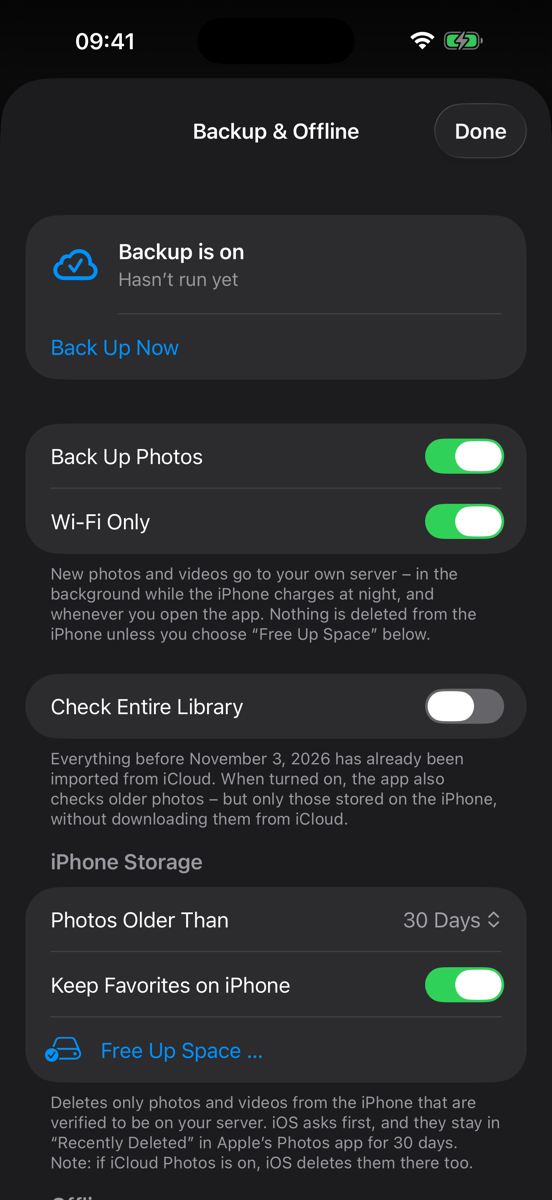
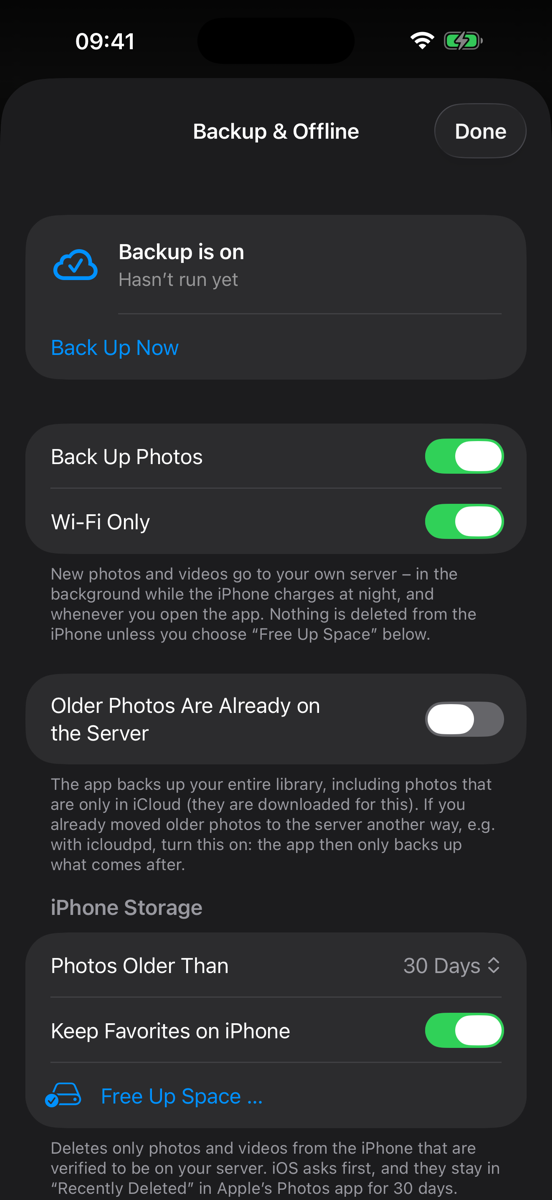
Backup: no hard-coded import date – full library by default, optional 'already on the server' date

Changed region(s): [[0.0616, 0.555, 0.9239, 1.0]]

diff --git a/App/Backup/BackupEngine.swift b/App/Backup/BackupEngine.swift
@@ -7,14 +7,12 @@ import BackgroundTasks
 /// - Lädt nur Originale (`.photo`, `.video`, `.pairedVideo`); eine Bearbeitung aus Fotos kommt als eigene Fassung
 ///   oben auf das Original (Stapel + Tag „Kategorie/Bearbeitet“) – wie beim iCloud-Import.
 /// - Duplikate erkennt der Server über die SHA1 (`bulk-upload-check`, Header `x-immich-checksum`).
-/// - Ältere Objekte als `cutoff` sind schon aus iCloud importiert: werden nur geprüft, wenn sie lokal liegen
-///   (kein Nachladen aus iCloud), und nur mit „Ganze Mediathek prüfen“.
+/// - Ältere Objekte als `importCutoff` liegen schon auf dem Server (z. B. per icloudpd importiert): werden nur geprüft,
+///   wenn sie lokal liegen (kein Nachladen aus iCloud), und nur mit „Ganze Mediathek prüfen“. Ohne Datum wird alles gesichert.
 @MainActor @Observable
 final class BackupEngine {
     static let shared = BackupEngine()
     nonisolated static let taskID = "org.homeroll.app.backup"
-    /// Ab hier fehlt der iCloud-Import (Download begann am 04.11.2026 nachts).
-    static let importCutoff = ISO8601DateFormatter().date(from: "2026-11-03T00:00:00Z")!
 
     enum Phase: Equatable { case idle, scanning, uploading, done, failed(String) }
 
@@ -29,6 +27,8 @@ final class BackupEngine {
     }
     var wifiOnly = UserDefaults.standard.object(forKey: "backup.wifiOnly") as? Bool ?? true { didSet { save() } }
     var fullLibrary = UserDefaults.standard.bool(forKey: "backup.full") { didSet { save() } }
+    /// Bis hierher ist die Mediathek schon auf dem Server (eigener Import); nil = ganze Mediathek sichern.
+    var importCutoff = UserDefaults.standard.object(forKey: "backup.importCutoff") as? Date { didSet { save() } }
     var lastRun = UserDefaults.standard.object(forKey: "backup.lastRun") as? Date
 
     var phase: Phase = .idle
@@ -52,6 +52,7 @@ final class BackupEngine {
     private func save() {
         let d = UserDefaults.standard
         d.set(enabled, forKey: "backup.enabled"); d.set(wifiOnly, forKey: "backup.wifiOnly"); d.set(fullLibrary, forKey: "backup.full")
+        d.set(importCutoff, forKey: "backup.importCutoff")
     }
 
     // MARK: Start / Hintergrund
@@ -114,7 +115,7 @@ final class BackupEngine {
         opts.includeHiddenAssets = true
         opts.includeAllBurstAssets = true
         opts.sortDescriptors = [NSSortDescriptor(key: "creationDate", ascending: true)]
-        if !fullLibrary { opts.predicate = NSPredicate(format: "creationDate >= %@", Self.importCutoff as NSDate) }
+        if !fullLibrary, let cutoff = importCutoff { opts.predicate = NSPredicate(format: "creationDate >= %@", cutoff as NSDate) }
         let result = PHAsset.fetchAssets(with: opts)
         var todo: [PHAsset] = []
         result.enumerateObjects { a, _, _ in
@@ -160,7 +161,7 @@ final class BackupEngine {
         let mainType: PHAssetResourceType = a.mediaType == .video ? .video : .photo
         guard let main = res.first(where: { $0.type == mainType }) else { throw BackupError.noOriginal }
         // Vor dem Import liegt alles schon auf dem Server: nie aus iCloud nachladen, nur Lokales prüfen.
-        let allowNetwork = (a.creationDate ?? .distantPast) >= Self.importCutoff
+        let allowNetwork = importCutoff.map { (a.creationDate ?? .distantPast) >= $0 } ?? true
         let api = ImmichClient.shared
 
         // Live Photo: zuerst das Video, damit das Foto darauf zeigen kann.

diff --git a/App/Backup/BackupView.swift b/App/Backup/BackupView.swift
@@ -36,9 +36,20 @@ struct BackupView: View {
                     Text(String(localized: "Neue Fotos und Videos landen auf deinem eigenen Server – im Hintergrund, wenn das iPhone nachts am Strom hängt, und sobald du die App öffnest. Auf dem iPhone wird nur gelöscht, wenn du unten „Speicher freigeben“ wählst."))
                 }
                 Section {
-                    Toggle(String(localized: "Ganze Mediathek prüfen"), isOn: $engine.fullLibrary)
+                    Toggle(String(localized: "Ältere Fotos sind schon auf dem Server"), isOn: Binding(
+                        get: { engine.importCutoff != nil },
+                        set: { engine.importCutoff = $0 ? Calendar.current.startOfDay(for: .now) : nil }))
+                    if let cutoff = engine.importCutoff {
+                        DatePicker(String(localized: "Übernommen bis"), selection: Binding(get: { cutoff }, set: { engine.importCutoff = $0 }),
+                                   in: ...Date.now, displayedComponents: .date)
+                        Toggle(String(localized: "Ganze Mediathek prüfen"), isOn: $engine.fullLibrary)
+                    }
                 } footer: {
-                    Text(String(localized: "Alles vor dem \(BackupEngine.importCutoff.formatted(.dateTime.day().month(.wide).year().locale(.autoupdatingCurrent))) ist schon aus iCloud übernommen. Eingeschaltet prüft die App auch ältere Fotos – aber nur die, die auf dem iPhone liegen, ohne sie aus iCloud zu laden."))
+                    if let cutoff = engine.importCutoff {
+                        Text(String(localized: "Alles vor dem \(cutoff.formatted(.dateTime.day().month(.wide).year().locale(.autoupdatingCurrent))) ist schon aus iCloud übernommen. Eingeschaltet prüft die App auch ältere Fotos – aber nur die, die auf dem iPhone liegen, ohne sie aus iCloud zu laden."))
+                    } else {
+                        Text(String(localized: "Die App sichert die ganze Mediathek, auch Fotos, die nur in iCloud liegen (sie werden dafür geladen). Hast du ältere Fotos schon anders auf den Server gebracht, z. B. mit icloudpd, schalte das ein: Dann sichert die App nur, was danach dazukommt."))
+                    }
                 }
                 FreeUpSection()
                 OfflineSection()

diff --git a/README.md b/README.md
@@ -58,6 +58,7 @@ HomeRoll is an independent iPhone client for a self-hosted Immich server. It aim
 
 **Backup & system**
 - Backup engine: new iPhone photos and videos as originals (checksum dedupe, Live Photos, favorites, hidden, edited stacks, local time)
+- Backs up the entire library by default (iCloud-only photos are downloaded for it); already imported older photos another way, e.g. with icloudpd? Set the date and only newer ones are backed up
 - **Free Up Space**: delete from the iPhone only what is verified on your server (backup checksum + server check, not in the server trash), by age, favorites kept; iOS asks first and keeps them 30 days in Recently Deleted
 - Widgets (Memories, Featured Photos), share extension ("save to my server" from any app)
 - Shared links, Immich partner sharing ("shared library")
